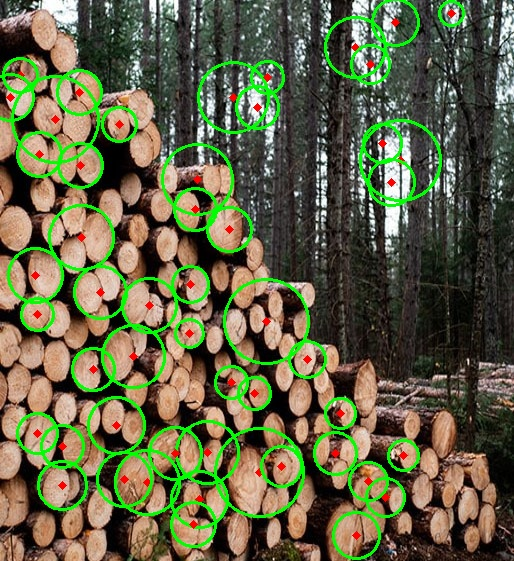
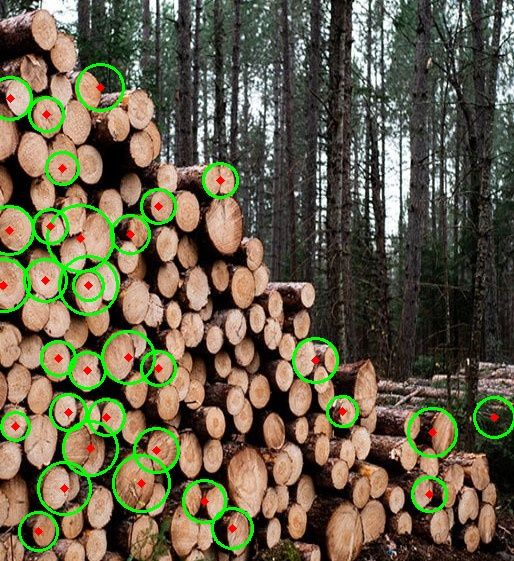
hw3, hw4: ALT для кружков и центральный опорный кадр

diff --git a/hw3/circles.py b/hw3/circles.py
@@ -1,10 +1,11 @@
 """Подсчёт кружков на изображениях преобразованием Хафа.
 
-Для каждого изображения подобраны свои параметры `cv2.HoughCircles`:
-радиус искомых окружностей, минимальное расстояние между центрами, порог
-аккумулятора и, где нужно, минимальная средняя яркость внутри кружка.
-Яркостный фильтр отсекает ложные окружности на тёмной листве: торцы брёвен
-светлые, а кроны деревьев — нет.
+Для каждого изображения подобраны свои параметры `cv2.HoughCircles`. Там, где
+обычный `HOUGH_GRADIENT` даёт много ложных срабатываний на фоне (листва, блики,
+повторяющиеся отверстия), используется более строгий `HOUGH_GRADIENT_ALT`.
+Он требует почти идеальной окружности и поэтому чище отделяет настоящие торцы
+и отверстия. Для снимка, где важно поймать больше мелких кружков, оставлен
+обычный `HOUGH_GRADIENT`.
 """
 
 from __future__ import annotations
@@ -17,49 +18,49 @@ import cv2
 import numpy as np
 
 # Параметры подобраны вручную под каждый снимок.
-# min_brightness=None — фильтр по яркости не применяется.
+# method: "gradient" — HOUGH_GRADIENT, "alt" — HOUGH_GRADIENT_ALT.
 CONFIGS = {
-    "logs-1.jpg": dict(param2=38, min_dist=45, min_radius=15, max_radius=75, min_brightness=115),
-    "logs-2.jpg": dict(param2=38, min_dist=45, min_radius=15, max_radius=75, min_brightness=115),
-    "logs-3.jpg": dict(param2=28, min_dist=14, min_radius=6, max_radius=18, min_brightness=None),
-    "logs-4.jpg": dict(param2=30, min_dist=22, min_radius=12, max_radius=45, min_brightness=110),
-    "pipes-4.jpg": dict(param2=28, min_dist=20, min_radius=10, max_radius=26, min_brightness=None),
-    "pipes-5.jpg": dict(param2=40, min_dist=45, min_radius=18, max_radius=60, min_brightness=None),
-    "pipes-6.jpg": dict(param2=45, min_dist=110, min_radius=50, max_radius=110, min_brightness=None),
+    "logs-1.jpg": dict(method="alt", param2=0.60, min_dist=45, min_radius=15, max_radius=75),
+    "logs-2.jpg": dict(method="alt", param2=0.60, min_dist=45, min_radius=15, max_radius=75),
+    "logs-3.jpg": dict(method="alt", param2=0.65, min_dist=14, min_radius=6, max_radius=18),
+    "logs-4.jpg": dict(method="alt", param2=0.55, min_dist=22, min_radius=12, max_radius=45),
+    "pipes-4.jpg": dict(method="alt", param2=0.55, min_dist=20, min_radius=10, max_radius=26),
+    "pipes-5.jpg": dict(method="gradient", param2=40, min_dist=45, min_radius=18, max_radius=60),
+    "pipes-6.jpg": dict(method="alt", param2=0.60, min_dist=110, min_radius=50, max_radius=110),
 }
 
-DEFAULT = dict(param2=38, min_dist=30, min_radius=8, max_radius=60, min_brightness=None)
-PARAM1 = 120
-DP = 1.2
+DEFAULT = dict(method="gradient", param2=38, min_dist=30, min_radius=8, max_radius=60)
+
+GRADIENT_PARAM1 = 120
+GRADIENT_DP = 1.2
+ALT_PARAM1 = 300
+ALT_DP = 1.5
 BLUR_KSIZE = 5
 
 
 def detect_circles(gray: np.ndarray, config: dict) -> list[tuple[int, int, int]]:
     """Найти окружности на полутоновом изображении с заданными параметрами."""
-    blurred = cv2.medianBlur(gray, BLUR_KSIZE)
+    if config["method"] == "alt":
+        blurred = cv2.GaussianBlur(gray, (BLUR_KSIZE, BLUR_KSIZE), 0)
+        method, param1, dp = cv2.HOUGH_GRADIENT_ALT, ALT_PARAM1, ALT_DP
+    else:
+        blurred = cv2.medianBlur(gray, BLUR_KSIZE)
+        method, param1, dp = cv2.HOUGH_GRADIENT, GRADIENT_PARAM1, GRADIENT_DP
+
     found = cv2.HoughCircles(
         blurred,
-        cv2.HOUGH_GRADIENT,
-        dp=DP,
+        method,
+        dp=dp,
         minDist=config["min_dist"],
-        param1=PARAM1,
+        param1=param1,
         param2=config["param2"],
         minRadius=config["min_radius"],
         maxRadius=config["max_radius"],
     )
     if found is None:
         return []
-
-    circles = []
-    for x, y, radius in np.round(found[0]).astype(int):
-        threshold = config["min_brightness"]
-        if threshold is not None:
-            mask = np.zeros(gray.shape, np.uint8)
-            cv2.circle(mask, (x, y), max(2, int(radius * 0.7)), 255, -1)
-            if cv2.mean(gray, mask=mask)[0] < threshold:
-                continue
-        circles.append((int(x), int(y), int(radius)))
-    return circles
+    return [(int(x), int(y), int(radius))
+            for x, y, radius in np.round(found[0]).astype(int)]
 
 
 def draw_circles(image: np.ndarray, circles: list[tuple[int, int, int]]) -> np.ndarray:
@@ -97,16 +98,16 @@ def main() -> None:
 
         cv2.imwrite(str(args.out / f"{path.stem}_circles.jpg"), draw_circles(image, circles))
         rows.append((path.name, len(circles), config))
-        print(f"{path.name}: {len(circles)} кружков")
+        print(f"{path.name}: {len(circles)} кружков ({config['method']})")
 
     with (args.out / "counts.csv").open("w", newline="", encoding="utf-8") as fh:
         writer = csv.writer(fh)
-        writer.writerow(["image", "circles", "param2", "min_dist", "min_radius",
-                         "max_radius", "min_brightness"])
+        writer.writerow(["image", "circles", "method", "param2", "min_dist",
+                         "min_radius", "max_radius"])
         for name, count, config in rows:
-            writer.writerow([name, count, config["param2"], config["min_dist"],
-                             config["min_radius"], config["max_radius"],
-                             config["min_brightness"]])
+            writer.writerow([name, count, config["method"], config["param2"],
+                             config["min_dist"], config["min_radius"],
+                             config["max_radius"]])
 
 
 if __name__ == "__main__":

diff --git a/hw4/panorama.py b/hw4/panorama.py
@@ -11,6 +11,8 @@
    ``estimateAffinePartial2D`` (подобие, RANSAC) -> ``warpPerspective``.
 
 Оба метода смешивают кадры с весами по расстоянию до края кадра (feathering).
+Опорным кадром выбирается центральный: ошибка накапливается в обе стороны от
+него, поэтому панорама меньше заваливается и наклон уменьшается.
 """
 
 from __future__ import annotations
@@ -129,6 +131,13 @@ def _canvas_size(images, transforms):
     height = int(np.ceil(ymax - ymin))
     if width * height > MAX_PIXELS:
         return None
+
+    # Полотно не должно быть заметно больше суммы кадров: иначе цепочка
+    # преобразований «разъехалась» и панорама растянута.
+    total_width = sum(image.shape[1] for image in images)
+    max_height = max(image.shape[0] for image in images)
+    if width > 1.1 * total_width or height > 2.5 * max_height:
+        return None
     return width, height, xmin, ymin
 
 
@@ -144,14 +153,27 @@ def _plan(images, features, config):
                           S=S, s_inliers=s_inliers))
 
     def chain(key: str):
-        transforms = [np.eye(3, dtype=np.float64)]
-        for i, pair in enumerate(pairs, start=1):
-            matrix = pair[key]
+        """Матрицы к опорному кадру. Опорный — центральный, ошибка идёт в обе стороны."""
+        reference = len(images) // 2
+        transforms = [None] * len(images)
+        transforms[reference] = np.eye(3, dtype=np.float64)
+
+        for i in range(reference + 1, len(images)):
+            matrix = pairs[i - 1][key]
             if matrix is None:
                 return None
-            transforms.append(transforms[-1] @ matrix)
-            if not _sane(transforms[-1], images[i].shape):
+            transforms[i] = transforms[i - 1] @ matrix
+            if not _sane(transforms[i], images[i].shape):
                 return None
+
+        for i in range(reference - 1, -1, -1):
+            matrix = pairs[i][key]  # переводит кадр i+1 в i
+            if matrix is None:
+                return None
+            transforms[i] = transforms[i + 1] @ np.linalg.inv(matrix)
+            if not _sane(transforms[i], images[i].shape):
+                return None
+
         if _canvas_size(images, transforms) is None:
             return None
         return transforms

diff --git a/hw3/README.md b/hw3/README.md
@@ -23,66 +23,81 @@
 
 ## Метод
 
-Используется `cv2.HoughCircles` с методом `HOUGH_GRADIENT`:
+Используются две реализации преобразования Хафа из OpenCV:
+
+| Режим | Функция | Когда применяется |
+|-------|---------|-------------------|
+| `gradient` | `cv2.HOUGH_GRADIENT` | когда нужно поймать больше мелких кружков |
+| `alt` | `cv2.HOUGH_GRADIENT_ALT` | когда на фоне много ложных окружностей |
+
+`HOUGH_GRADIENT_ALT` требует почти идеальной окружности и поэтому чище
+отделяет настоящие торцы и отверстия от листвы, бликов и повторяющихся
+отверстий. На большинстве снимков он дал заметно меньше ложных срабатываний,
+поэтому используется по умолчанию для этой серии. Обычный `HOUGH_GRADIENT`
+оставлен для `pipes-5`, где важно поймать больше мелких труб.
+
+### Параметры
+
+Для `HOUGH_GRADIENT`:
 
 ```python
-gray = cv2.cvtColor(image, cv2.COLOR_BGR2GRAY)
-blur = cv2.medianBlur(gray, 5)
-circles = cv2.HoughCircles(blur, cv2.HOUGH_GRADIENT, dp=1.2,
-                           minDist=..., param1=120, param2=...,
-                           minRadius=..., maxRadius=...)
+cv2.HoughCircles(gray, cv2.HOUGH_GRADIENT, dp=1.2,
+                 minDist=..., param1=120, param2=...,
+                 minRadius=..., maxRadius=...)
 ```
 
-`dp = 1.2` — разрешение аккумулятора, `param1 = 120` — верхний порог Кэнни.
-Остальные параметры подобраны для каждого снимка отдельно:
+Для `HOUGH_GRADIENT_ALT`:
 
-- `param2` — порог аккумулятора: чем выше, тем меньше ложных срабатываний;
+```python
+cv2.HoughCircles(gray, cv2.HOUGH_GRADIENT_ALT, dp=1.5,
+                 minDist=..., param1=300, param2=...,
+                 minRadius=..., maxRadius=...)
+```
+
+- `param2` у `HOUGH_GRADIENT` — порог аккумулятора: чем выше, тем меньше
+  ложных срабатываний;
+- `param2` у `HOUGH_GRADIENT_ALT` — мера «идеальности» окружности (0…1): чем
+  ближе к 1, тем строже отбор;
 - `minDist` — минимальное расстояние между центрами, чтобы один кружок не
-  находился дважды;
+  нашёлся дважды;
 - `minRadius`/`maxRadius` — диапазон радиусов под размер объектов на снимке.
 
-### Фильтр по яркости
+Параметры подобраны для каждого снимка отдельно:
 
-На снимках с брёвнами фон — тёмный лес, и листва даёт много ложных кружков.
-Торцы брёвен светлые, поэтому для `logs-1`, `logs-2` и `logs-4` после Хафа
-отбрасываются кружки, средняя яркость внутри которых ниже порога. Фильтр
-применяется только к этим снимкам; для труб он не нужен.
-
-## Параметры
-
-| Снимок | `param2` | `minDist` | радиусы | порог яркости |
-|--------|---------:|----------:|---------|--------------:|
-| `logs-1.jpg` | 38 | 45 | 15–75 | 115 |
-| `logs-2.jpg` | 38 | 45 | 15–75 | 115 |
-| `logs-3.jpg` | 28 | 14 | 6–18 | — |
-| `logs-4.jpg` | 30 | 22 | 12–45 | 110 |
-| `pipes-4.jpg` | 28 | 20 | 10–26 | — |
-| `pipes-5.jpg` | 40 | 45 | 18–60 | — |
-| `pipes-6.jpg` | 45 | 110 | 50–110 | — |
+| Снимок | Режим | `param2` | `minDist` | радиусы |
+|--------|-------|---------:|----------:|---------|
+| `logs-1.jpg` | alt | 0.60 | 45 | 15–75 |
+| `logs-2.jpg` | alt | 0.60 | 45 | 15–75 |
+| `logs-3.jpg` | alt | 0.65 | 14 | 6–18 |
+| `logs-4.jpg` | alt | 0.55 | 22 | 12–45 |
+| `pipes-4.jpg` | alt | 0.55 | 20 | 10–26 |
+| `pipes-5.jpg` | gradient | 40 | 45 | 18–60 |
+| `pipes-6.jpg` | alt | 0.60 | 110 | 50–110 |
 
 ## Результаты
 
-| Снимок | Кружков |
-|--------|--------:|
-| `logs-1.jpg` | 67 |
-| `logs-2.jpg` | 67 |
-| `logs-3.jpg` | 42 |
-| `logs-4.jpg` | 51 |
-| `pipes-4.jpg` | 73 |
-| `pipes-5.jpg` | 20 |
-| `pipes-6.jpg` | 18 |
+| Снимок | Режим | Кружков |
+|--------|-------|--------:|
+| `logs-1.jpg` | alt | 65 |
+| `logs-2.jpg` | alt | 56 |
+| `logs-3.jpg` | alt | 52 |
+| `logs-4.jpg` | alt | 33 |
+| `pipes-4.jpg` | alt | 54 |
+| `pipes-5.jpg` | gradient | 20 |
+| `pipes-6.jpg` | alt | 22 |
 
 Размеченные снимки лежат в `hw3/output/`, все параметры и количество — в
 `hw3/output/counts.csv`.
 
 ## Замечания
 
-- На `logs-1` и `logs-2` в кадр попадают машина и дорожный знак — на них
-  приходится несколько ложных кружков.
-- На `logs-4` остаётся пара ложных срабатываний на светлых просветах в лесу.
-- На `pipes-5` и `pipes-6` трубы вложены друг в друга, поэтому «кружочками»
-  считаются внешние отверстия выбранного масштаба; мелкие внутренние трубы
-  в счёт не входят — их радиусы выходят за выбранный диапазон.
+- `HOUGH_GRADIENT_ALT` строже, поэтому на некоторых снимках он находит меньше
+  кружков, но почти без ложных: на `logs-4` он перестал реагировать на листву,
+  а на `pipes-4` — на тёмные внутренние отверстия и блики.
+- На `pipes-5` трубы вложены друг в друга; обычный `HOUGH_GRADIENT` ловит и
+  крупные отверстия, и мелкие трубы, поэтому для этого снимка оставлен он.
+- На `logs-1` и `logs-2` в кадр попадает машина, на `logs-3` — дальний план;
+  единичные ложные срабатывания всё же возможны.
 
 ## Запуск
 
@@ -96,5 +111,5 @@ uv run python hw3/circles.py
 uv run python hw3/circles.py --data hw3/data --out hw3/output
 ```
 
-Скрипт печатает число кружков по каждому файлу, сохраняет размеченные
-изображения в `hw3/output/` и таблицу `counts.csv`.
+Скрипт печатает число кружков и использованный режим по каждому файлу,
+сохраняет размеченные изображения в `hw3/output/` и таблицу `counts.csv`.

diff --git a/README.md b/README.md
@@ -57,9 +57,10 @@ uv run python hw2/kidney_edges.py
 ### 3. Подсчёт кружков преобразованием Хафа
 
 На снимках брёвен и труб кружки ищутся `cv2.HoughCircles`. Параметры (радиусы,
-минимальное расстояние, порог аккумулятора) подобраны отдельно под каждый
-снимок, а на кадрах с брёвнами дополнительно отбрасываются тёмные ложные
-окружности на листве.
+минимальное расстояние, порог) подобраны отдельно под каждый снимок. Для
+большинства кадров используется более строгий `HOUGH_GRADIENT_ALT`, который
+не реагирует на листву и блики; для `pipes-5` оставлен обычный
+`HOUGH_GRADIENT` — он полнее ловит мелкие трубы.
 
 Подробное описание метода, параметров и результатов — в
 [hw3/README.md](hw3/README.md).
@@ -76,7 +77,8 @@ uv run python hw3/circles.py
 Два решения. Первое (`lab04`) повторяет метод с практического занятия: ORB,
 BFMatcher с `NORM_HAMMING`, Lowe ratio 0.6, гомография по RANSAC и перенос
 через `warpPerspective`. Второе (`sift`) использует SIFT, `NORM_L2`, ratio 0.75
-и преобразование подобия. Оба варианта смешивают кадры с плавными весами.
+и преобразование подобия. Оба варианта смешивают кадры с плавными весами и
+строят панораму от центрального кадра как опорного — так меньше наклон.
 
 Подробное описание методов и результатов — в [hw4/README.md](hw4/README.md).
 
